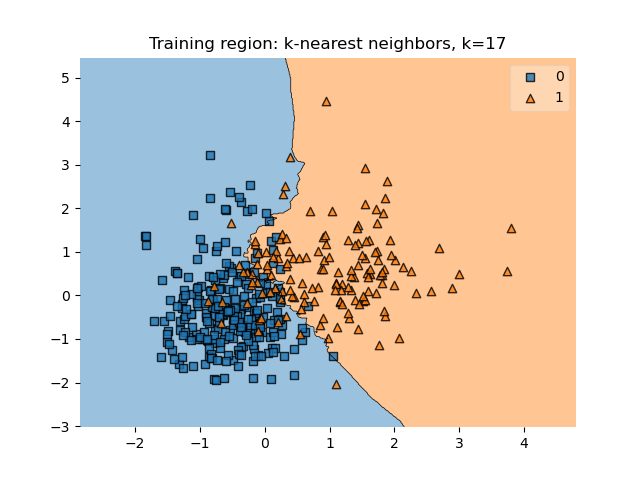
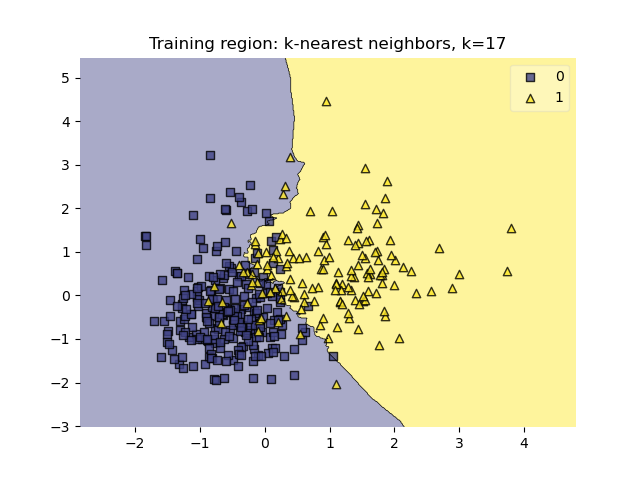
two versions

diff --git a/DSnonprog9_5withImages.py b/DSnonprog9_5withImages.py
@@ -1,12 +1,13 @@
 import streamlit as st
 import pandas as pd
 import numpy as np
-import matplotlib.pyplot as plt
+# import matplotlib.pyplot as plt
 from sklearn.neighbors import KNeighborsClassifier
 from sklearn.model_selection import train_test_split
 from sklearn.preprocessing import StandardScaler
 from sklearn.metrics import accuracy_score, precision_score, recall_score
-from mlxtend.plotting import plot_decision_regions
+# from mlxtend.plotting import plot_decision_regions
+from streamlit_option_menu import option_menu
 
 # A selection of viridis colors generated @ https://hauselin.github.io/colorpalettejs/
 mycolors = ('#414487,#fde725')
@@ -49,15 +50,19 @@ images = {3: "images/KNeigh3.png", 5: "images/KNeigh5.png", 7: "images/KNeigh7.p
                 15: "images/KNeigh15.png", 17: "images/KNeigh17.png", 19: "images/KNeigh19.png"}
 
 # Sets columns with proportions
-col1, col2 = st.columns([2,3])
-# col1, col2 = st.columns([1,4])
+col1, col2 = st.columns([2,11])
         
 with col1:
 # Set menu for column 1
         k = st.selectbox(
             "Select k",
             [3, 5, 7, 9, 11, 13, 15, 17, 19],
-            index=0
+        #     styles={
+        #                 "container": {"padding": "0!important", "background-color": "#fafafa"},
+        #                 "icon": {"color": "orange", "font-size": "25px"}, 
+        #                 "nav-link": {"font-size": "25px", "text-align": "left", "margin":"0px", "--hover-color": "#eee"},
+        #                 "nav-link-selected": {"background-color": "green"},
+        #         }
         )
         # Fit the data and generate performance metrics
         knn = KNeighborsClassifier(n_neighbors=k) 
@@ -69,24 +74,24 @@ with col1:
         recall = recall_score(y_train, y_pred)
 
         st.write("Performance metrics on training data")
-        st.write("Accuracy = ", round(accuracy, 4))
-        st.write("Precision = ", round(precision, 4))
-        st.write("Recall =", round(recall, 4))
-        # st.metric("Accuracy", round(accuracy, 4))
-        # st.metric("Precision", round(precision, 4))
-        # st.metric("Recall", round(recall, 4))
+        # st.write("Accuracy = ", round(accuracy, 4))
+        # st.write("Precision = ", round(precision, 4))
+        # st.write("Recall =", round(recall, 4))
+        st.metric("Accuracy", round(accuracy, 4))
+        st.metric("Precision", round(precision, 4))
+        st.metric("Recall", round(recall, 4))
 
 with col2:
         # Set up plot
-        fig, ax = plt.subplots()
+        # fig, ax = plt.subplots()
 
-        p = plot_decision_regions(X_train_scaled, np.ravel(y_train), clf=knn, colors=mycolors) 
-        p.set_title('Training region: k-nearest neighbors, k=%i' %k)
-### Uncomment to generate the plots and save the images -- need an images folder ###
-        plt.savefig("images/KNeigh" + str(k) + ".png")
-        st.pyplot(fig, ignore_streamlit_theme=True)
+        # p = plot_decision_regions(X_train_scaled, np.ravel(y_train), clf=knn, colors=mycolors) 
+        # p.set_title('Training region: k-nearest neighbors, k=%i' %k)
+### Uncomment line below to generate the plots and save the images -- need an images folder ###
+        # plt.savefig("images/KNeigh" + str(k) + ".png")
+        # st.pyplot(fig, ignore_streamlit_theme=True)
 ### Comment line above and Uncomment line below to use images for column 2 ###
-        # st.image(images[k])
+        st.image(images[k])
 
 # Toggles off the Alt-text box at the bottom of the page -- default is text on
 text_hider = st.checkbox('Hide footer')
